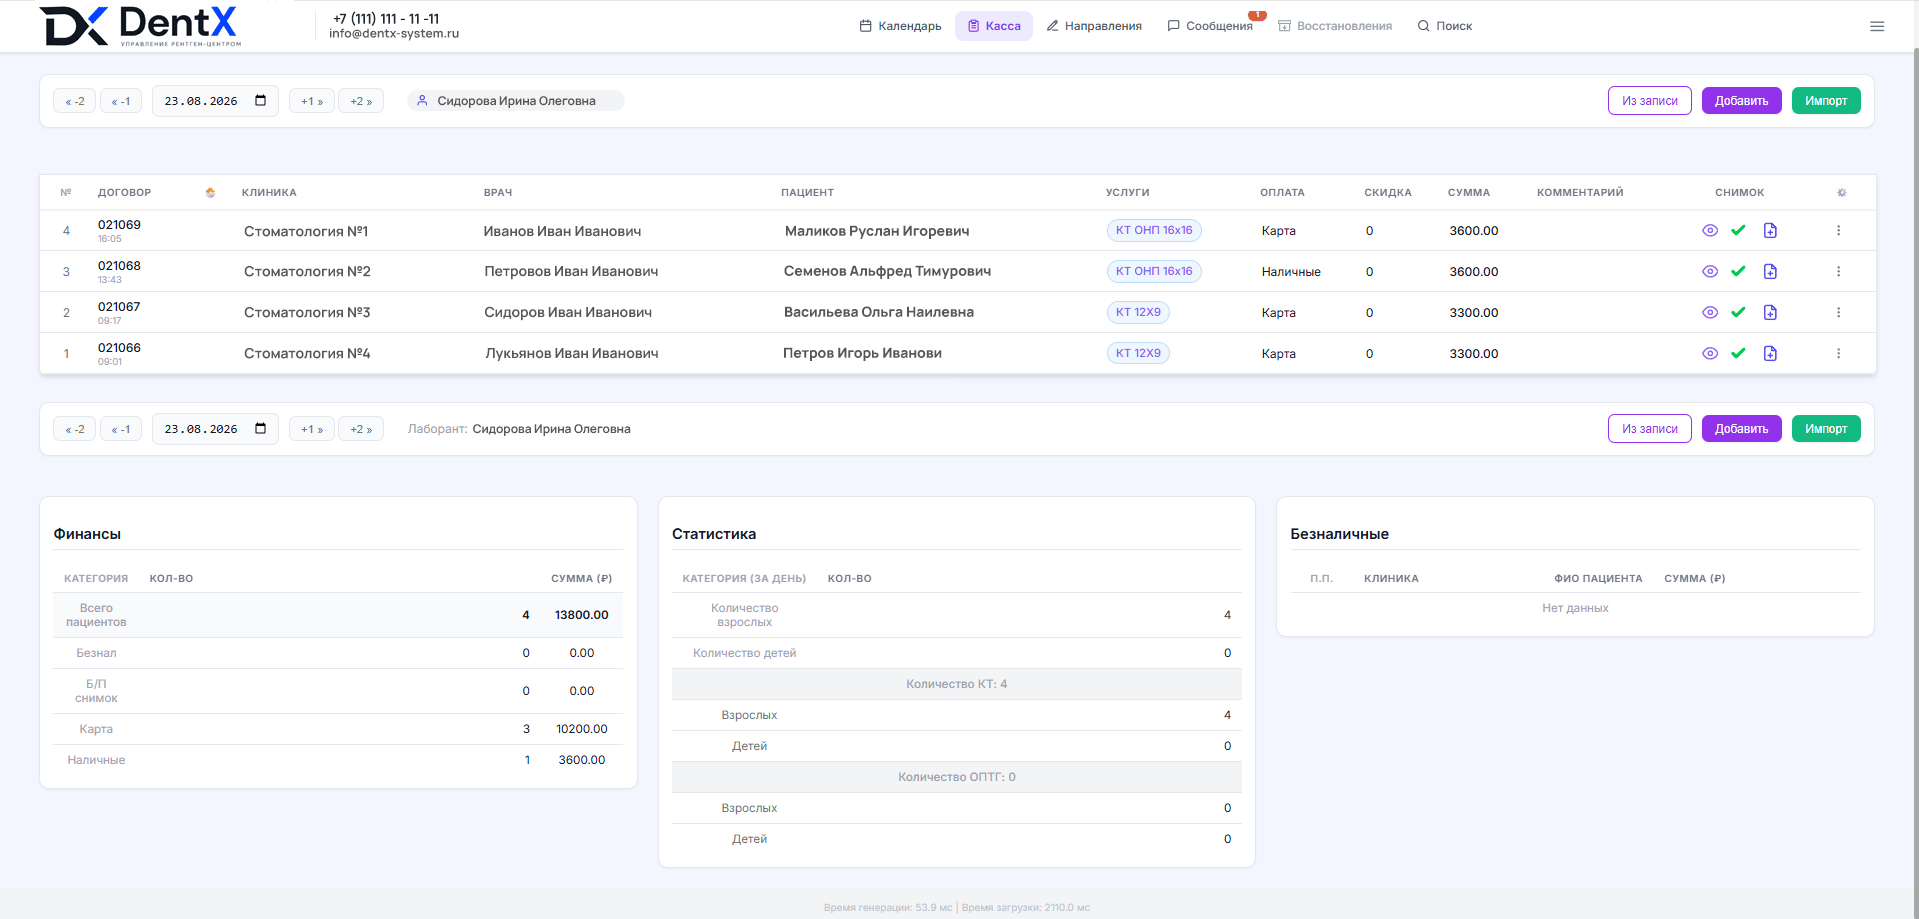
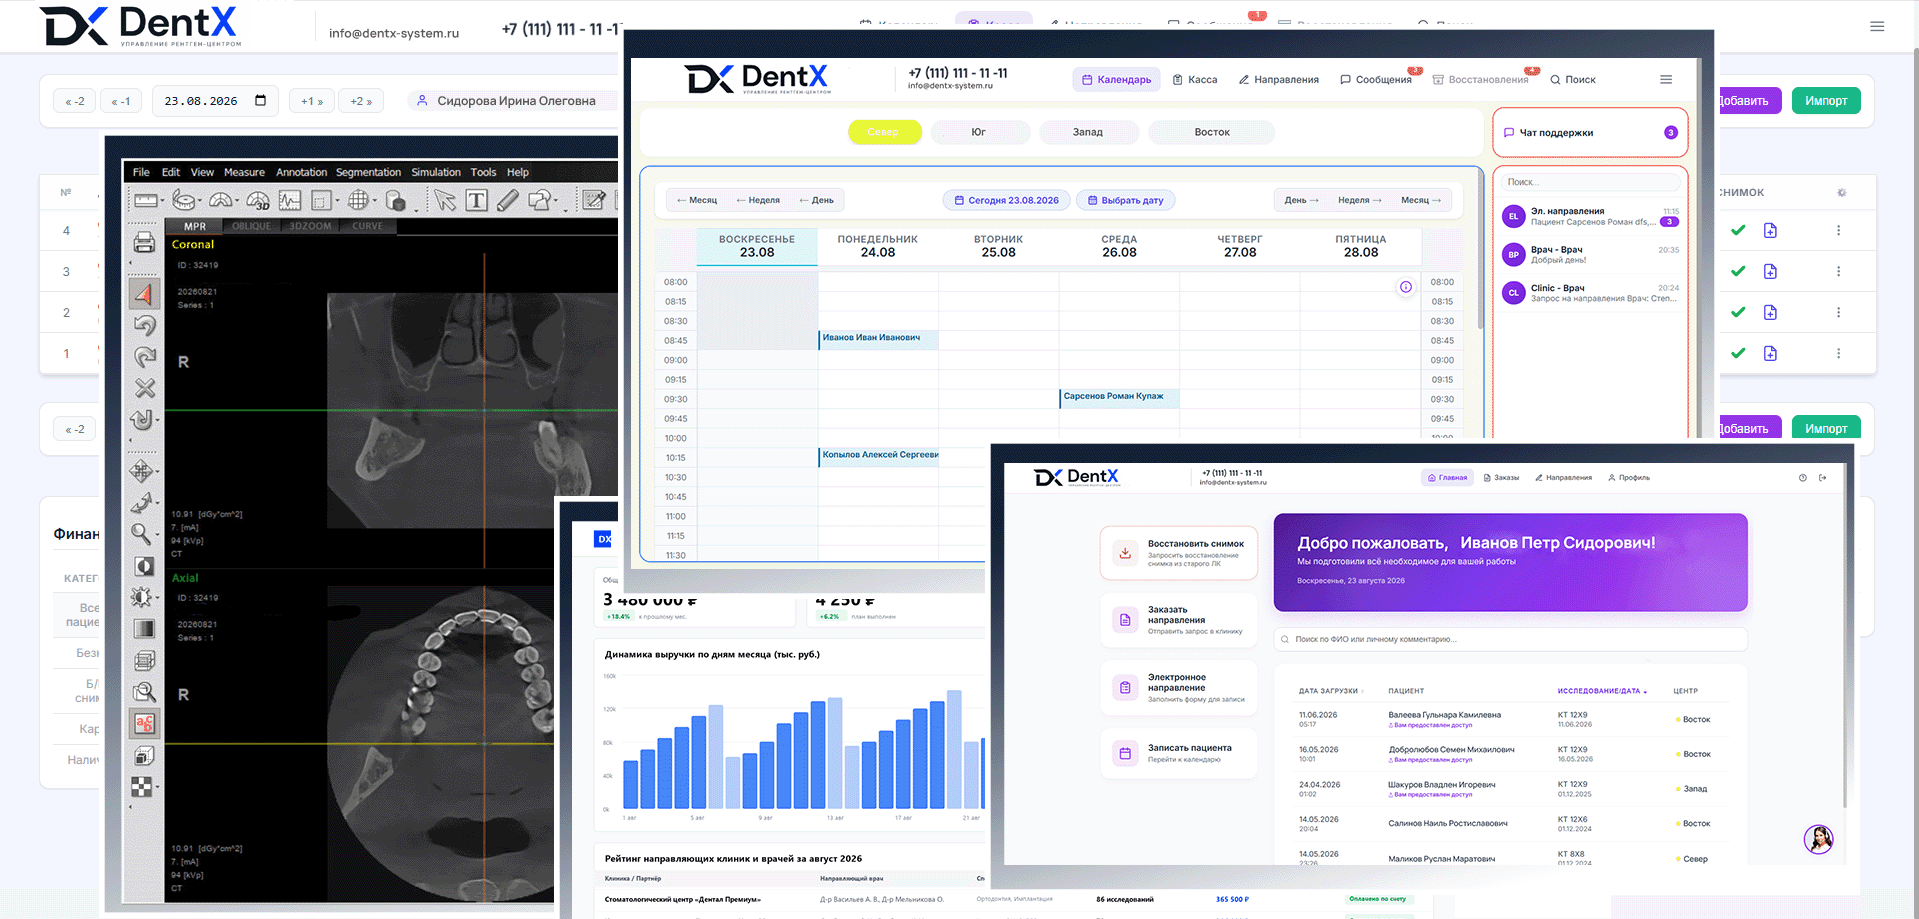
feat: add meta tags for character set and viewport to improve responsiveness across all HTML pages

diff --git a/index.html b/index.html
@@ -1,6 +1,8 @@
 <!DOCTYPE html>
 <html lang="ru">
 <head>
+  <meta charset="UTF-8">
+  <meta name="viewport" content="width=device-width, initial-scale=1.0">
   <!-- Yandex.Metrika counter -->
   <script type="text/javascript">
       (function(m,e,t,r,i,k,a){
@@ -15,8 +17,6 @@
   <noscript><div><img src="https://mc.yandex.ru/watch/111880491" style="position:absolute; left:-9999px;" alt="" /></div></noscript>
   <!-- /Yandex.Metrika counter -->
 
-  <meta charset="UTF-8">
-  <meta name="viewport" content="width=device-width, initial-scale=1.0">
   <title>DentX — Программа для центров дентальной рентгенодиагностики, КЛКТ и ОПТГ</title>
   <meta name="description" content="DentX — специализированная программа для управления центром дентальной рентгенодиагностики и кабинетом КЛКТ. Запись и учёт пациентов, архив DICOM, онлайн 2D/3D веб-просмотр томограмм для стоматологов, протоколы рентгенологов и финансовая отчётность.">
   <link rel="canonical" href="https://dentx-system.ru/">
@@ -255,6 +255,8 @@
         <span>Программный комплекс для центров дентальной рентген-диагностики</span>
       </div>
       <div class="top-bar-right">
+        <a href="tel:+79330927494" class="top-link top-phone">+7 (933) 092-74-94</a>
+        <span class="sep">•</span>
         <button type="button" class="top-link open-contact-modal-btn" style="background:none; border:none; cursor:pointer;">Связаться с разработчиком</button>
       </div>
     </div>

diff --git a/privacy.html b/privacy.html
@@ -1,6 +1,8 @@
 <!DOCTYPE html>
 <html lang="ru">
 <head>
+  <meta charset="UTF-8">
+  <meta name="viewport" content="width=device-width, initial-scale=1.0">
   <!-- Yandex.Metrika counter -->
   <script type="text/javascript">
       (function(m,e,t,r,i,k,a){
@@ -15,8 +17,6 @@
   <noscript><div><img src="https://mc.yandex.ru/watch/111880491" style="position:absolute; left:-9999px;" alt="" /></div></noscript>
   <!-- /Yandex.Metrika counter -->
 
-  <meta charset="UTF-8">
-  <meta name="viewport" content="width=device-width, initial-scale=1.0">
   <title>Политика в отношении обработки персональных данных — АО «Центр развития закупок РТ»</title>
   <meta name="description" content="Политика акционерного общества «Центр развития закупок Республики Татарстан» в отношении обработки персональных данных. Утверждена приказом № 09.1/26 от 01.07.2026.">
   <link rel="canonical" href="https://dentx-system.ru/privacy.html">

diff --git a/consent.html b/consent.html
@@ -1,6 +1,8 @@
 <!DOCTYPE html>
 <html lang="ru">
 <head>
+  <meta charset="UTF-8">
+  <meta name="viewport" content="width=device-width, initial-scale=1.0">
   <!-- Yandex.Metrika counter -->
   <script type="text/javascript">
       (function(m,e,t,r,i,k,a){
@@ -15,8 +17,6 @@
   <noscript><div><img src="https://mc.yandex.ru/watch/111880491" style="position:absolute; left:-9999px;" alt="" /></div></noscript>
   <!-- /Yandex.Metrika counter -->
 
-  <meta charset="UTF-8">
-  <meta name="viewport" content="width=device-width, initial-scale=1.0">
   <title>Согласие на обработку персональных данных — DentX System</title>
   <meta name="description" content="Текст согласия на обработку персональных данных для посетителей и пользователей веб-ресурса DentX System в соответствии с 152-ФЗ.">
   <link rel="canonical" href="https://dentx-system.ru/consent.html">

diff --git a/style.css b/style.css
@@ -217,6 +217,9 @@ button, input, textarea {
 
 .top-link {
   color: var(--text-muted);
+  text-decoration: none;
+  font-family: inherit;
+  font-size: inherit;
   transition: color var(--trans-fast);
 }
 
@@ -225,8 +228,19 @@ button, input, textarea {
   text-decoration: underline;
 }
 
+.top-phone {
+  font-weight: 600;
+  color: var(--text-main);
+}
+
+.top-phone:hover {
+  color: var(--color-primary);
+  text-decoration: none;
+}
+
 .sep {
   color: var(--border-main);
+  user-select: none;
 }
 
 /* Header */
@@ -2647,6 +2661,8 @@ button, input, textarea {
 }
 
 @media (max-width: 600px) {
+  .top-bar-left { display: none; }
+  .top-bar-flex { justify-content: center; }
   .hero-headline { font-size: 1.85rem; }
   .process-scheme-track { grid-template-columns: 1fr; }
   .pcr-grid { grid-template-columns: 1fr; }

diff --git a/admin.html b/admin.html
@@ -1,6 +1,8 @@
 <!DOCTYPE html>
 <html lang="ru">
 <head>
+  <meta charset="UTF-8">
+  <meta name="viewport" content="width=device-width, initial-scale=1.0">
   <!-- Yandex.Metrika counter -->
   <script type="text/javascript">
       (function(m,e,t,r,i,k,a){
@@ -14,9 +16,6 @@
   </script>
   <noscript><div><img src="https://mc.yandex.ru/watch/111880491" style="position:absolute; left:-9999px;" alt="" /></div></noscript>
   <!-- /Yandex.Metrika counter -->
-
-  <meta charset="UTF-8">
-  <meta name="viewport" content="width=device-width, initial-scale=1.0">
   <title>DentX System — Панель управления заявками</title>
   <link rel="icon" type="image/x-icon" href="favicon.ico">
   <link rel="icon" type="image/png" sizes="32x32" href="images/favicon-32x32.png">

diff --git a/crm.html b/crm.html
@@ -1,6 +1,8 @@
 <!DOCTYPE html>
 <html lang="ru">
 <head>
+  <meta charset="UTF-8">
+  <meta name="viewport" content="width=device-width, initial-scale=1.0">
   <!-- Yandex.Metrika counter -->
   <script type="text/javascript">
       (function(m,e,t,r,i,k,a){
@@ -14,9 +16,6 @@
   </script>
   <noscript><div><img src="https://mc.yandex.ru/watch/111880491" style="position:absolute; left:-9999px;" alt="" /></div></noscript>
   <!-- /Yandex.Metrika counter -->
-
-  <meta charset="UTF-8">
-  <meta name="viewport" content="width=device-width, initial-scale=1.0">
   <title>DentX System — Панель управления заявками</title>
   <link rel="icon" type="image/x-icon" href="favicon.ico">
   <link rel="icon" type="image/png" sizes="32x32" href="images/favicon-32x32.png">

diff --git a/dashboard.html b/dashboard.html
@@ -1,6 +1,8 @@
 <!DOCTYPE html>
 <html lang="ru">
 <head>
+  <meta charset="UTF-8">
+  <meta name="viewport" content="width=device-width, initial-scale=1.0">
   <!-- Yandex.Metrika counter -->
   <script type="text/javascript">
       (function(m,e,t,r,i,k,a){
@@ -14,9 +16,6 @@
   </script>
   <noscript><div><img src="https://mc.yandex.ru/watch/111880491" style="position:absolute; left:-9999px;" alt="" /></div></noscript>
   <!-- /Yandex.Metrika counter -->
-
-  <meta charset="UTF-8">
-  <meta name="viewport" content="width=device-width, initial-scale=1.0">
   <title>DentX System — Панель управления заявками</title>
   <link rel="icon" type="image/x-icon" href="favicon.ico">
   <link rel="icon" type="image/png" sizes="32x32" href="images/favicon-32x32.png">

diff --git a/panel.html b/panel.html
@@ -1,6 +1,8 @@
 <!DOCTYPE html>
 <html lang="ru">
 <head>
+  <meta charset="UTF-8">
+  <meta name="viewport" content="width=device-width, initial-scale=1.0">
   <!-- Yandex.Metrika counter -->
   <script type="text/javascript">
       (function(m,e,t,r,i,k,a){
@@ -14,9 +16,6 @@
   </script>
   <noscript><div><img src="https://mc.yandex.ru/watch/111880491" style="position:absolute; left:-9999px;" alt="" /></div></noscript>
   <!-- /Yandex.Metrika counter -->
-
-  <meta charset="UTF-8">
-  <meta name="viewport" content="width=device-width, initial-scale=1.0">
   <title>DentX System — Панель управления заявками</title>
   <link rel="icon" type="image/x-icon" href="favicon.ico">
   <link rel="icon" type="image/png" sizes="32x32" href="images/favicon-32x32.png">
